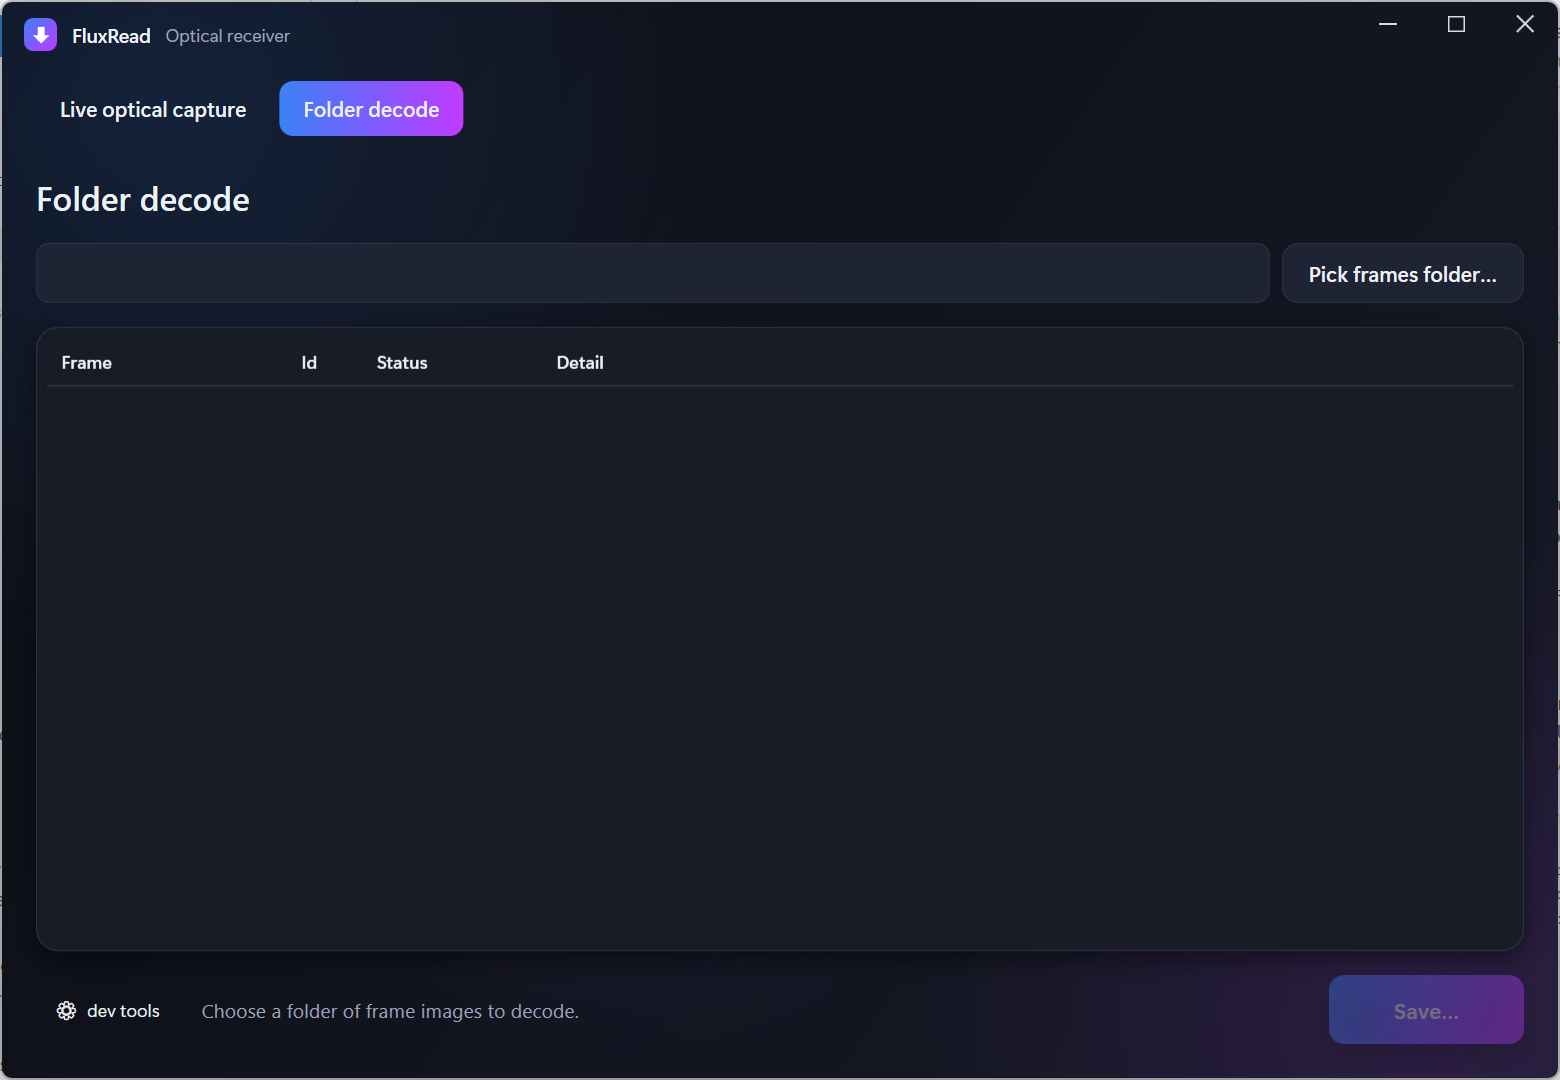
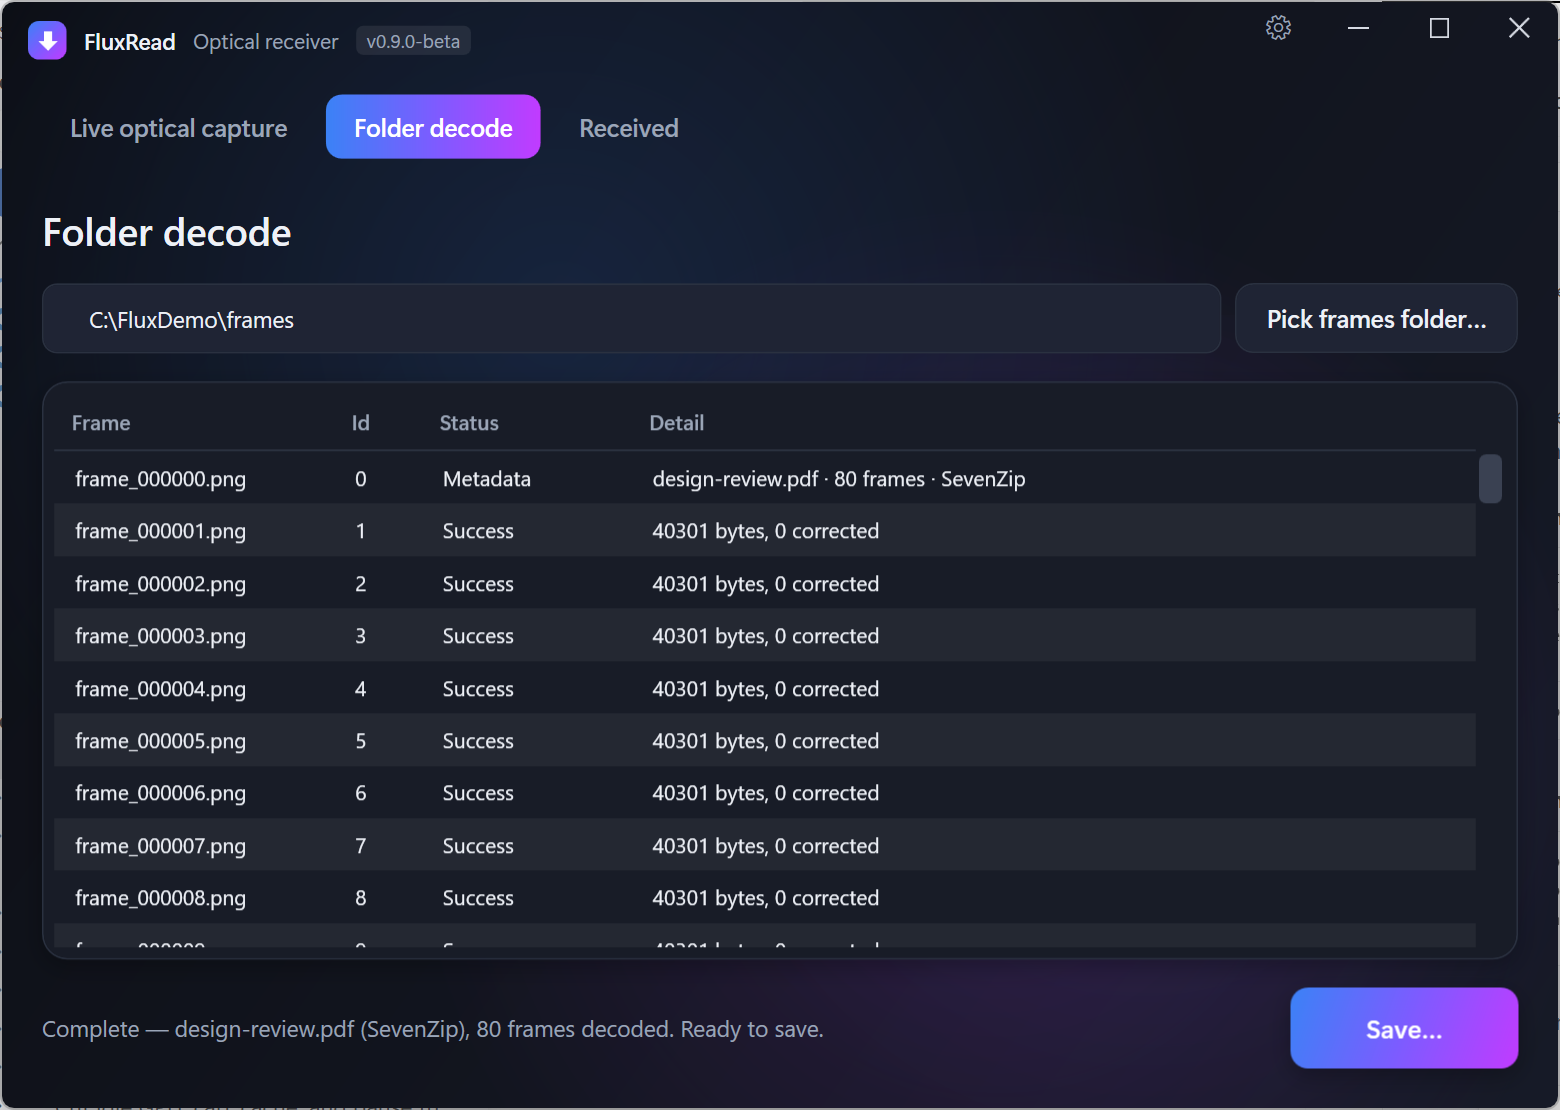
Regenerate the README screenshots for the current UI
The four shots predated the tab bar, the Default/Rugged/Advanced mode pills,
the capacity readout, and FluxRead's Received tab, so they showed an app that
no longer exists. Recaptured all four in dark theme against a neutral demo
source so no personal paths or filenames appear.

Captured with temporary env-var hooks in EncodeSetupView and FolderDecodeView,
now removed — the Win32 file dialogs are not reachable through UIA here.

diff --git a/README.md b/README.md
@@ -40,7 +40,8 @@ distinct per-app icons (▲ send / ▼ receive).
   <tr>
     <td width="50%" valign="top">
       <img src="docs/screenshots/fluxcast-setup.png" alt="FluxCast — encode setup"/><br/>
-      <sub><b>FluxCast · setup</b> — pick a file or folder, choose a mode, start encoding.</sub>
+      <sub><b>FluxCast · setup</b> — pick a source, choose a mode, read the fitted grid and
+      throughput, start encoding.</sub>
     </td>
     <td width="50%" valign="top">
       <img src="docs/screenshots/fluxread-live.png" alt="FluxRead — live optical capture"/><br/>
@@ -54,7 +55,8 @@ distinct per-app icons (▲ send / ▼ receive).
     </td>
     <td width="50%" valign="top">
       <img src="docs/screenshots/fluxread-folder.png" alt="FluxRead — folder decode"/><br/>
-      <sub><b>FluxRead · folder decode</b> — decode a folder of frames with a per-frame results grid.</sub>
+      <sub><b>FluxRead · folder decode</b> — decode a folder of frames with a per-frame results
+      grid, then verify and save.</sub>
     </td>
   </tr>
 </table>
